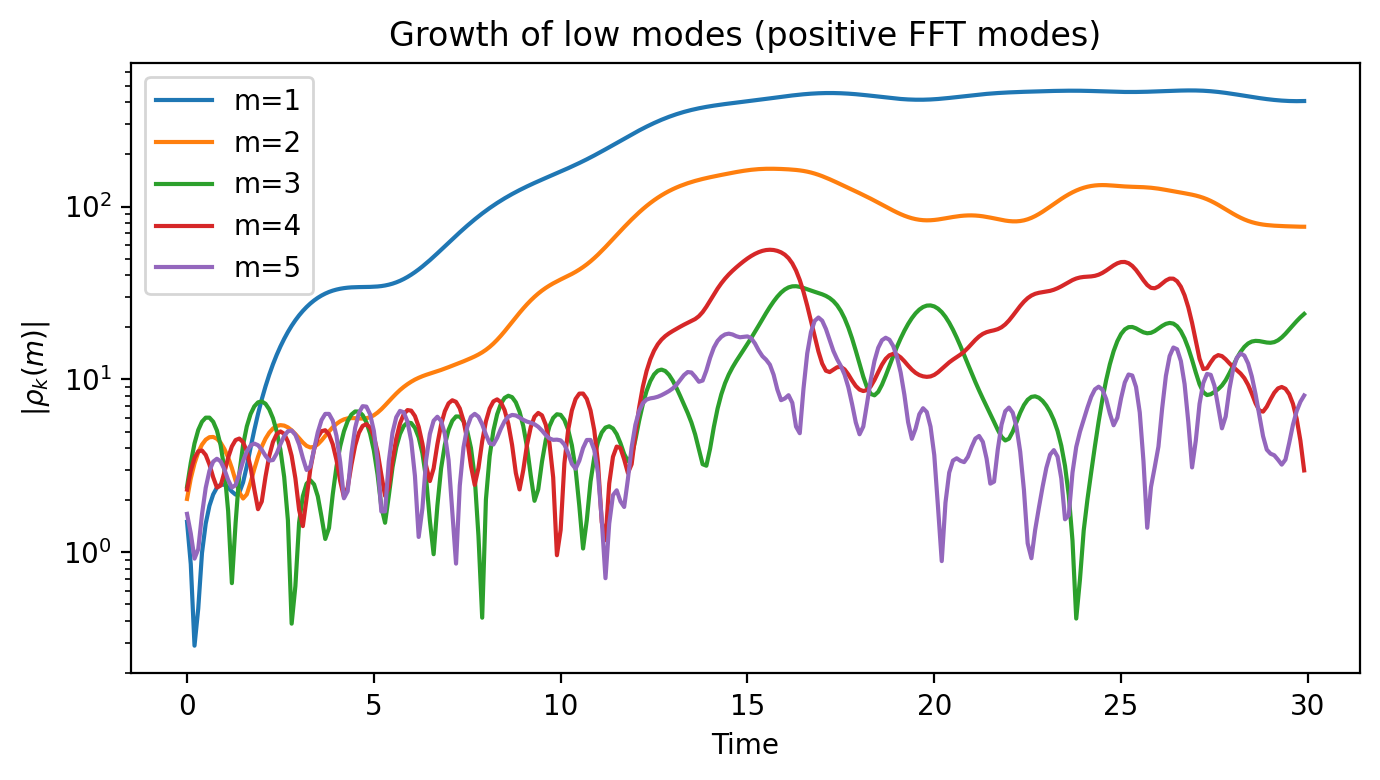
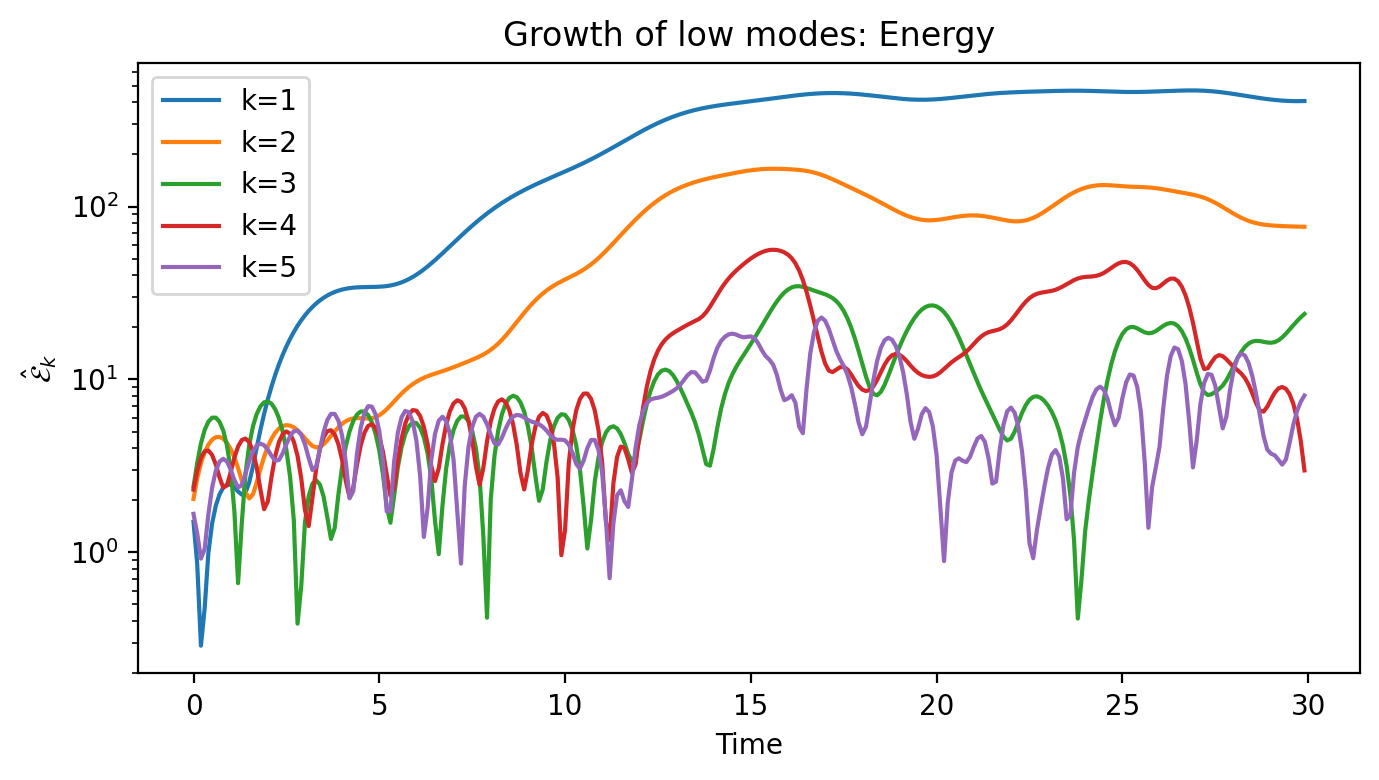
updated plots

diff --git a/plotting.py b/plotting.py
@@ -113,7 +113,7 @@ def plot_pde_solution(ts, y, boxsize, name="", label="", save_path=None):
     _maybe_save_or_show(fig, save_path=save_path)
 
 
-def plot_modes(ts, y, max_mode_spect, max_mode_time, boxsize, num=4, zero_mean=True, save_path=None):
+def plot_modes(ts, y, max_mode_spect, max_mode_time, boxsize, num=4, name="", label="", zero_mean=True, save_path=None):
     """
     y: real signal of shape (Nt, Nx). First axis time, second axis space.
     Plots magnitude/power spectra at a few time indices, and low-mode growth over time.
@@ -159,16 +159,17 @@ def plot_modes(ts, y, max_mode_spect, max_mode_time, boxsize, num=4, zero_mean=T
         t_pct = ts[index]
 
         axes[row, 0].stem(modes[show], mag[show])
-        axes[row, 0].set_ylabel(r"$|\rho_k(m)|$")
+        axes[row, 0].set_ylabel(label)
         axes[row, 0].set_title(f"Magnitude at t={t_pct:.1f}")
 
         axes[row, 1].semilogy(modes[show], power[show])
-        axes[row, 1].set_ylabel(r"$|\rho_k(m)|^2$")
+        axes[row, 1].set_ylabel(label)
         axes[row, 1].set_title(f"Power at t={t_pct:.1f}")
 
     axes[-1, 0].set_xlabel("Mode")
     axes[-1, 1].set_xlabel("Mode")
-
+    
+    plt.title(f"{name} spectrum")
     plt.tight_layout()
 
     # If we're saving, save this figure and the growth figure as a separate file.
@@ -188,9 +189,9 @@ def plot_modes(ts, y, max_mode_spect, max_mode_time, boxsize, num=4, zero_mean=T
     fig2 = plt.figure(figsize=(7, 4))
     plt.semilogy(ts, amps)
     plt.xlabel("Time")
-    plt.ylabel(r"$|\rho_k(m)|$")
-    plt.legend([f"m={i}" for i in range(1, max_mode_time + 1)])
-    plt.title("Growth of low modes (positive FFT modes)")
+    plt.ylabel(label)
+    plt.legend([f"k={i}" for i in range(1, max_mode_time + 1)])
+    plt.title(f"Growth of low modes: {name}")
     plt.tight_layout()
 
     _maybe_save_or_show(fig2, save_path=save_path_growth)

diff --git a/main_opt.py b/main_opt.py
@@ -91,6 +91,6 @@ plot_pde_solution(pic.ts, pic.rho, boxsize, name=r"Density", label=r"$\rho$", sa
 plot_pde_solution(pic.ts, pic.momentum, boxsize, name=r"Momentum", label=r"$P$", save_path="plots/trained/momentum.png")
 plot_pde_solution(pic.ts, pic.energy, boxsize, name=r"Energy", label=r"$E$", save_path="plots/trained/energy.png")
 
-plot_modes(pic.ts, pic.rho, max_mode_spect=10, max_mode_time=5, boxsize=boxsize, num=4, zero_mean=True, save_path="plots/trained/density_modes.png")
-plot_modes(pic.ts, pic.momentum, max_mode_spect=10, max_mode_time=5, boxsize=boxsize, num=4, zero_mean=True, save_path="plots/trained/momentum_modes.png")
-plot_modes(pic.ts, pic.energy, max_mode_spect=10, max_mode_time=5, boxsize=boxsize, num=4, zero_mean=True, save_path="plots/trained/energy_modes.png")
+plot_modes(pic.ts, pic.rho, max_mode_spect=10, max_mode_time=5, boxsize=boxsize, name=r"Density", label=r"$\hat\rho_k$", num=4, zero_mean=True, save_path="plots/trained/density_modes.png")
+plot_modes(pic.ts, pic.momentum, max_mode_spect=10, max_mode_time=5, boxsize=boxsize, name=r"Momentum", label=r"$\hat\mathcal{{p}}_k$", num=4, zero_mean=True, save_path="plots/trained/momentum_modes.png")
+plot_modes(pic.ts, pic.energy, max_mode_spect=10, max_mode_time=5, boxsize=boxsize, name=r"Energy", label=r"$\hat\mathcal{{E}}_k$", num=4, zero_mean=True, save_path="plots/trained/energy_modes.png")

diff --git a/main_zir.py b/main_zir.py
@@ -44,6 +44,6 @@ plot_pde_solution(pic.ts, pic.rho, boxsize, name=r"Density", label=r"$\rho$", sa
 plot_pde_solution(pic.ts, pic.momentum, boxsize, name=r"Momentum", label=r"$P$", save_path="plots/zir/momentum.png")
 plot_pde_solution(pic.ts, pic.energy, boxsize, name=r"Energy", label=r"$E$", save_path="plots/zir/energy.png")
 
-plot_modes(pic.ts, pic.rho, max_mode_spect=10, max_mode_time=5, boxsize=boxsize, num=4, zero_mean=True, save_path="plots/zir/density_modes.png")
-plot_modes(pic.ts, pic.momentum, max_mode_spect=10, max_mode_time=5, boxsize=boxsize, num=4, zero_mean=True, save_path="plots/zir/momentum_modes.png")
-plot_modes(pic.ts, pic.energy, max_mode_spect=10, max_mode_time=5, boxsize=boxsize, num=4, zero_mean=True, save_path="plots/zir/energy_modes.png")
+plot_modes(pic.ts, pic.rho, max_mode_spect=10, max_mode_time=5, boxsize=boxsize, name=r"Density", label=r"$\hat\rho_k$", num=4, zero_mean=True, save_path="plots/zir/density_modes.png")
+plot_modes(pic.ts, pic.momentum, max_mode_spect=10, max_mode_time=5, boxsize=boxsize, name=r"Momentum", label=r"$\hat\mathcal{{p}}_k$", num=4, zero_mean=True, save_path="plots/zir/momentum_modes.png")
+plot_modes(pic.ts, pic.energy, max_mode_spect=10, max_mode_time=5, boxsize=boxsize, name=r"Energy", label=r"$\hat\mathcal{{E}}_k$", num=4, zero_mean=True, save_path="plots/zir/energy_modes.png")

diff --git a/control.py b/control.py
@@ -149,15 +149,14 @@ class FourierActuator(eqx.Module):
             return jnp.zeros(self.N_mesh)
 
         if self.closed_loop:
-            # Same closed-loop stub you had; keep behavior
             if x is None:
                 raise ValueError("closed_loop=True requires state x to be provided.")
-            x_rom = x  # replace with your ROM mapping
+            x_rom = x  # replace with ROM mapping
             u = -(self.K0 @ x_rom)
             u = self.u_max * jnp.tanh(u / self.u_max)
             return u
 
-        # Open-loop: precompute full field and slice (same behavior as your prior class)
+        # Open-loop: precompute full field and slice
         E_all = self.field()
         return E_all[n.astype(int)]
     
@@ -195,7 +194,7 @@ class FourierActuator(eqx.Module):
         return summary
 
     # -----------------------
-    # Save / Load (updated)
+    # Save / Load
     # -----------------------
     def save_model(self, filename: str):
         with open(filename, "wb") as f:
